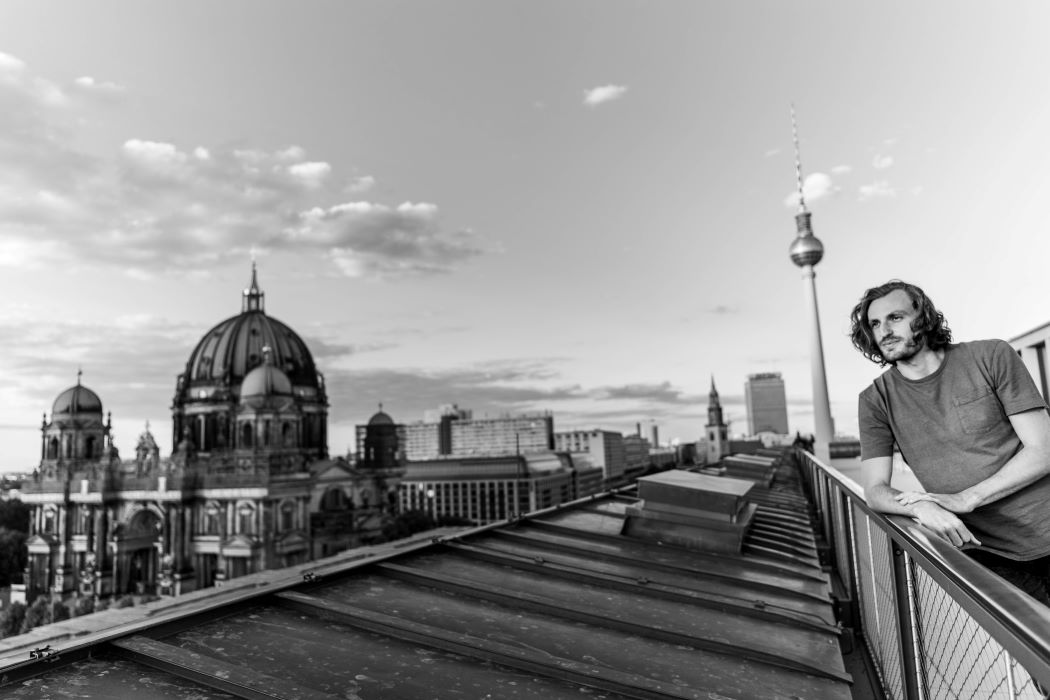
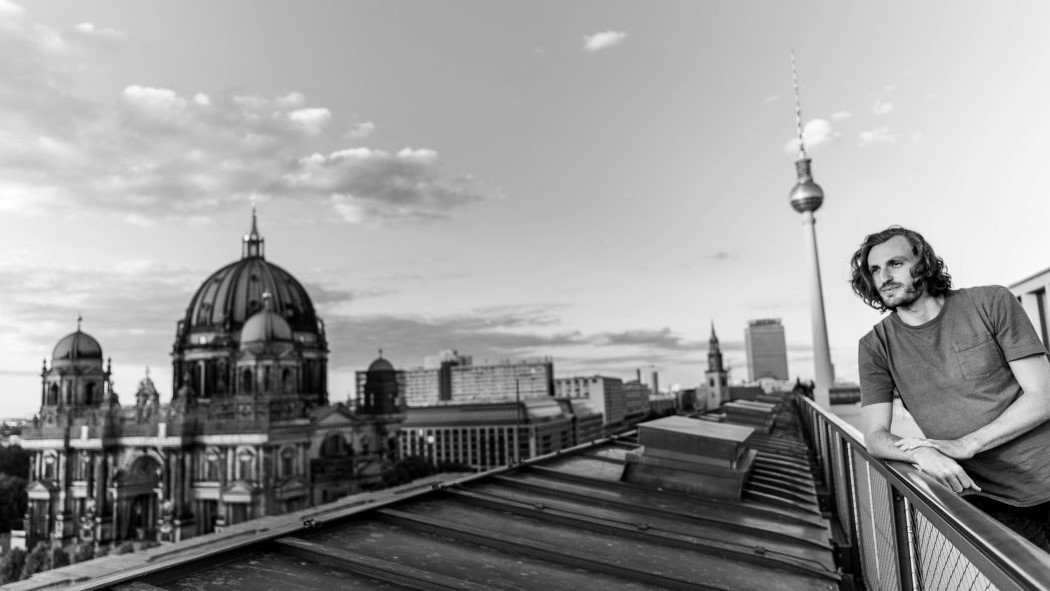
Minor edits
Changing a bit the images and the description in the about page

diff --git a/about.html b/about.html
@@ -41,7 +41,7 @@
                   <h1>
                      Simon Cichy
                      <br>
-                     wanna-be quantum scientist
+                     a quantum engineer in Berlin
                   </h1>
                   <br>
                   <img class="img-responsive margin-top-45" src="img/me1.jpg" alt="me">
